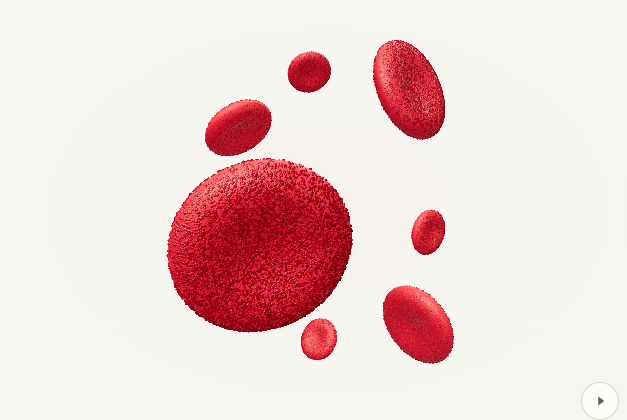
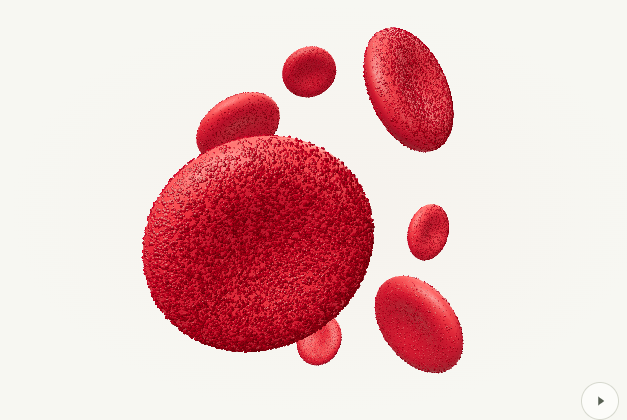
Polish catalogue accordions, scene loading and page entrance motion

Changed region(s): [[0.2121, 0.0929, 0.7576, 0.8976], [0.5758, 0.0619, 0.7273, 0.3714], [0.6364, 0.4643, 0.7273, 0.619]]

diff --git a/src/main.js b/src/main.js
@@ -4,6 +4,7 @@ import '@fontsource/figtree/latin-600.css';
 import '@fontsource/figtree/latin-700.css';
 import '@fontsource/dm-mono/latin-400.css';
 import './style.css';
+import {initPageMotion} from './page-motion.js';
 import {renderGuidance, initGuidance} from './test-guidance.js';
 import {renderProcess, initProcess} from './process.js';
 import {renderServiceCards, renderServiceDrawer, initServiceDrawer} from './service-drawer.js';
@@ -16,12 +17,12 @@ const waLink = (label, message, classes='text-link') => `<a class="${classes} wh
 const isServices = location.pathname.replace(/\/$/, '') === '/services';
 const isPrivacy = location.pathname.replace(/\/$/, '') === '/privacy';
 const homeAnchor = id => isServices || isPrivacy ? `/#${id}` : `#${id}`;
-const departmentRows = (full=false) => departments.map((d,i)=> `<details class="department" id="${d.id}"><summary><span class="index">0${i+1}</span><span class="department-title">${d.name}<small>${d.summary}</small></span><span class="test-count">${d.tests.length} TESTS</span><span class="plus" aria-hidden="true">+</span></summary><div class="department-content">${d.tests.map(t=>testRow(t)).join('')}</div></details>`).join('');
+const departmentRows = (full=false) => departments.map((d,i)=> `<details class="department" name="catalogue-departments" id="${d.id}"><summary><span class="index">0${i+1}</span><span class="department-title">${d.name}<small>${d.summary}</small></span><span class="test-count">${d.tests.length} TESTS</span><span class="plus" aria-hidden="true">+</span></summary><div class="department-content">${d.tests.map(t=>testRow(t)).join('')}</div></details>`).join('');
 function testRow(t) { return `<div class="test-row" data-test-name="${t.name}"><div><h3>${t.name}</h3>${t.alias?`<span class="alias">${t.alias}</span>`:''}<p>${t.description}</p>${renderGuidance(t)}</div><div class="test-action"><span class="sample">${t.sample}</span><a href="${whatsapp(`Hello Javim Medical, I would like to enquire about ${t.name}. Please share pricing, turnaround time and preparation requirements.`)}" target="_blank" rel="noopener noreferrer" aria-label="Enquire about ${t.name}">Enquire ${arrow}</a></div></div>`; }
 const header = `<a class="skip-link" href="#main">Skip to content</a><header class="header wrap">${brand}<button class="menu-toggle" aria-label="Open navigation" aria-expanded="false" aria-controls="navigation">Menu <span aria-hidden="true">＋</span></button><nav id="navigation" aria-label="Main navigation"><a href="/services" ${isServices?'aria-current="page"':''}>Services</a><a href="${homeAnchor('about')}">The lab</a><a href="${homeAnchor('corporate')}">For business</a><a href="${homeAnchor('contact')}">Contact</a><button class="button button-small" data-book>Book a visit ${arrow}</button></nav></header>`;
 const footer = `<footer class="footer wrap"><div class="footer-top">${brand}<p>Thoughtful care.<br>Clearer answers.</p>${waLink('Let’s talk')}</div><div class="footer-bottom"><span>© ${new Date().getFullYear()} Javim Medical Consultants Limited</span><a href="/privacy">Privacy</a><span>Nairobi, Kenya <span class="red-dot"></span></span></div></footer>`;
 const booking = `<dialog id="booking-dialog" aria-labelledby="booking-title" class="booking-dialog"><div class="dialog-head"><span class="eyebrow">YOUR NEXT STEP</span><button class="close-dialog" aria-label="Close booking">×</button></div><h2 id="booking-title">Make time<br>for your health.</h2><p class="muted">Choose what you need. We’ll take it from here.</p><div class="booking-options">${bookingTypes.map((b,i)=>{const url=safeCalUrl(b.calUrl);return `<a href="${url || whatsapp(b.message)}" target="_blank" rel="noopener noreferrer"><span class="index">0${i+1}</span><div><h3>${b.name}</h3><p>${b.description}</p><span class="alias">${url?'CHOOSE A TIME ON CAL.COM':'<span class="whatsapp-text">ARRANGE VIA WHATSAPP</span>'}</span></div>${arrow}</a>`}).join('')}</div><p class="booking-note">Pricing, preparation and collection arrangements are confirmed by our team. Please avoid sending sensitive medical information in your initial enquiry.</p></dialog>`;
-const hero = `<section class="hero wrap" aria-labelledby="hero-title"><div class="hero-copy"><div class="eyebrow"><span class="red-dot"></span> PRECISION. CARE. CLARITY.</div><h1 id="hero-title">A clearer<br>picture of<br>your <em>health.</em></h1><p>Laboratory testing with a human touch.<br>For you, your family and your team.</p><div class="hero-actions"><button class="button" data-book>Make an appointment ${arrow}</button><a class="text-link" href="/services">Explore our tests <span aria-hidden="true">→</span></a></div></div><div class="hero-visual"><div id="medical-scene" role="group" aria-label="DNA helix transforming into interactive flowing particles"><div class="scene-fallback"><svg xmlns="http://www.w3.org/2000/svg" viewBox="0 0 320 500" fill="none" aria-hidden="true"><g stroke="#df222b" stroke-width="10" stroke-linecap="round"><path d="M110 30c160 70-60 120 100 190s-60 120 0 250M210 30C50 100 270 150 110 220s60 120 0 250"/></g><g stroke="#d78689" stroke-width="3"><path d="m110 30 100 0M150 60h20M135 95h50M100 130h120M130 165h60M150 195h20M110 225h100M140 260h40M150 295h20M100 330h120M130 365h60M150 400h20M110 435h100M110 470h100"/></g></svg></div></div><div class="scene-bottom"><button id="motion-toggle" class="motion-toggle" aria-label="Pause animation" aria-pressed="false"><span aria-hidden="true">Ⅱ</span></button></div></div><div class="hero-foot"><span>PERSONAL CARE. A BROADER PERSPECTIVE.</span><a href="#services">Discover Javim <span aria-hidden="true">↓</span></a></div></section>`;
+const hero = `<section class="hero wrap" aria-labelledby="hero-title"><div class="hero-copy"><div class="eyebrow"><span class="red-dot"></span> PRECISION. CARE. CLARITY.</div><h1 id="hero-title">A clearer<br>picture of<br>your <em>health.</em></h1><p>Laboratory testing with a human touch.<br>For you, your family and your team.</p><div class="hero-actions"><button class="button" data-book>Make an appointment ${arrow}</button><a class="text-link" href="/services">Explore our tests <span aria-hidden="true">→</span></a></div></div><div class="hero-visual"><div id="medical-scene" aria-busy="true" role="group" aria-label="DNA helix transforming into interactive flowing particles"><div class="scene-fallback" hidden><img src="/assets/dna-poster.webp" alt="" width="640" height="720"></div></div><div class="scene-bottom"><button id="motion-toggle" class="motion-toggle" aria-label="Pause animation" aria-pressed="false"><span aria-hidden="true">Ⅱ</span></button></div></div><div class="hero-foot"><span>PERSONAL CARE. A BROADER PERSPECTIVE.</span><a href="#services">Discover Javim <span aria-hidden="true">↓</span></a></div></section>`;
 const about = `<section id="about" class="about-section wrap section"><div class="eyebrow">01 / THE JAVIM APPROACH</div><div class="about-grid"><h2>Small details.<br>Meaningful answers.</h2><div><p class="large-copy">Behind every sample is a person.<br>That’s where our work begins.</p><p class="muted">Javim Medical Consultants Limited brings together diagnostic testing and personal service in Nairobi. From a routine check to a more specific investigation, our team helps you understand the next step.</p><details class="quiet-details"><summary>Get to know the lab <span aria-hidden="true">+</span></summary><div><p>Our services span haematology, clinical chemistry, immunoassays and hormones, serology, microbiology, parasitology, and histology and cytology.</p><p>Whether you live locally or are visiting Kenya, speak directly with our team about test availability, sample requirements, pricing and turnaround times.</p></div></details></div></div>${renderProcess()}</section>`;
 const serviceSection = `<section id="services" class="services-section section wrap"><div class="section-heading"><div><span class="eyebrow">02 / OUR SERVICES</span><h2>A world of insight.<br>A simple place to start.</h2></div><p class="muted">Seven areas of diagnostic testing.<br>Open a category to find what you need.</p></div><div class="service-card-grid">${renderServiceCards()}</div><div class="section-tail"><span class="muted">Already know the test you need?</span><a class="text-link" href="/services">Search the full catalogue <span aria-hidden="true">→</span></a></div></section>`;
 const anatomySVG = `<svg viewBox="0 0 320 580" role="group" aria-label="Illustrated human body with highlighted organs"><defs><linearGradient id="body-fill" x1="0" y1="0" x2="1" y2="1"><stop stop-color="#f4f4ef"/><stop offset=".5" stop-color="#d7d8d2"/><stop offset="1" stop-color="#f6f6f0"/></linearGradient><radialGradient id="organ"><stop stop-color="#f36860"/><stop offset="1" stop-color="#c42028"/></radialGradient></defs><g fill="url(#body-fill)" stroke="#babdb5" stroke-width="1"><path d="M142 79c-8-8-15-18-14-37 1-20 12-30 32-30s31 10 32 30c1 19-6 29-14 37l-1 18 30 10c15 5 22 18 26 39l16 95 12 60-9 11-12-5-14-64-17-59-5 105 4 56-16 105-8 64-10 45 4 22h-30l-2-20 8-41 4-65 5-94-8-41h-18l-8 41 5 94 4 65 8 41-2 20h-30l4-22-10-45-8-64-16-105 4-56-5-105-17 59-14 64-12 5-9-11 12-60 16-95c4-21 11-34 26-39l30-10Z"/></g><g fill="none" stroke="#adb1a8" stroke-width="1.2" opacity=".45"><path d="M160 101v198M132 121c-20 21-27 56-16 78M188 121c20 21 27 56 16 78M124 153q36 18 72 0M120 165q40 20 80 0M119 179q41 19 82 0M122 193q38 17 76 0M125 208q35 14 70 0M135 298l-14 51M185 298l14 51M119 358l11 102M201 358l-11 102"/></g><g class="anatomy-organ" data-organ="blood" fill="url(#organ)"><path d="M160 145c-8-10-15-7-19 0-9 13-4 33 12 41 13 11 23-1 23-17 1-13-3-22-16-24Z"/><g fill="none" stroke="#d32b31" stroke-width="2.5"><path d="M161 184v104m0-79-29 17-9 77m38-87 29 13 9 74M158 149v-30m0 24-38-16-14 61m56-45 38-16 14 61M161 283l-28 59-1 84m29-143 28 59 1 84"/></g></g><g class="anatomy-organ" data-organ="thyroid" fill="url(#organ)"><path d="M156 111c-17-14-16 14-2 10h12c14 4 15-24-2-10Z"/></g><g class="anatomy-organ" data-organ="liver" fill="url(#organ)"><path d="M126 207c8-14 39-12 59-1-9 6-16 12-23 14-17 5-30 4-36-13Z"/></g><g class="anatomy-organ" data-organ="kidneys" fill="url(#organ)"><path d="M136 231c-15-7-21 21-11 29 7 6 16-3 12-9-9-2 1-14-1-20ZM184 231c15-7 21 21 11 29-7 6-16-3-12-9 9-2-1-14 1-20Z"/></g><g class="anatomy-organ" data-organ="metabolic" fill="none" stroke="#d52a32" stroke-width="4"><path d="M141 273q-15-9-13 5t27 6q24-17 29-3t-22 10q-34-1-20 15t38-3"/></g></svg>`;
@@ -32,6 +33,7 @@ const contact = `<section id="contact" class="contact-section"><div class="wrap 
 const servicesPage = `<section class="catalogue-page wrap"><div class="catalogue-hero"><div class="catalogue-intro"><div class="eyebrow"><span class="red-dot"></span> OUR SERVICES</div><h1>Find your<br><em>next answer.</em></h1><p class="large-copy">Explore our laboratory tests.<br>Ask our team about preparation, pricing and timing.</p></div><div class="blood-visual"><div id="blood-scene" role="group" aria-label="Illustrative red blood cells floating in three dimensions"><img class="blood-fallback" src="/assets/services/haematology.webp" alt="" width="840" height="560"></div><button id="blood-motion-toggle" class="motion-toggle" aria-label="Pause blood cell animation" aria-pressed="false"></button></div></div><div class="search-bar"><label for="test-search">Search tests</label><div><span aria-hidden="true">⌕</span><input id="test-search" type="search" placeholder="Try HbA1c, thyroid or kidney…" autocomplete="off"><button id="clear-search" aria-label="Clear search" hidden>×</button></div></div><div class="filter-list" role="group" aria-label="Filter by department"><button data-filter="all" class="active" aria-pressed="true">All tests</button>${departments.map(d=>`<button data-filter="${d.id}" aria-pressed="false">${d.name}</button>`).join('')}</div><p id="results-count" class="eyebrow" role="status" aria-live="polite">${allTests.length} TESTS / 7 SERVICE GROUPS</p><div id="catalogue-results">${departmentRows(true)}</div><div class="catalogue-help"><h2>Not sure where to start?</h2><p class="muted">Share the test name or your clinician’s request. Our team can confirm availability, pricing and preparation.</p>${waLink('Ask the team')}</div></section>`;
 const privacy = `<article class="privacy-page wrap"><span class="eyebrow">YOUR PRIVACY</span><h1>Care includes<br><em>your privacy.</em></h1><p>This website provides information about Javim Medical Consultants Limited and links to our team and appointment services.</p><h2>Website use</h2><p>We do not provide a medical-record upload form or use analytics or advertising trackers on this website. Our hosting provider may process technical request information such as IP addresses for delivery and security.</p><h2>Contact and booking</h2><p><span class="whatsapp-text">WhatsApp</span>, Cal.com (when enabled) and Google Maps are external services with their own privacy policies. They receive information when you follow a link to use them. Please avoid sharing sensitive health details in an initial booking enquiry.</p><h2>Medical information</h2><p>Ask our team how patient information, specimens and laboratory results are handled before submitting medical information. This website notice does not replace the laboratory’s patient-data policy.</p><h2>Questions</h2><p>Contact <a href="mailto:javimops@outlook.com">javimops@outlook.com</a> for privacy enquiries.</p></article>`;
 document.querySelector('#app').innerHTML = (header + `<main id="main">${isServices?servicesPage:isPrivacy?privacy:hero+about+serviceSection+explorer+corporate+contact}</main>` + footer + booking + (!isServices&&!isPrivacy?renderServiceDrawer():'')).replaceAll('↗', arrowIcon);
+initPageMotion();
 initProcess();
 initServiceDrawer();
 const dialog = document.querySelector('#booking-dialog');
@@ -44,6 +46,8 @@ document.querySelectorAll('#navigation a, #navigation [data-book]').forEach(a=>a
 if (!isServices && !isPrivacy) {
   import('./scene.js').then(({mountScene}) => mountScene(document.querySelector('#medical-scene'))).catch(() => {
     document.querySelector('.scene-fallback').hidden = false;
+    document.querySelector('#medical-scene').setAttribute('aria-busy','false');
+    document.querySelector('#medical-scene').dataset.phase='fallback';
     document.querySelector('#medical-scene canvas')?.setAttribute('hidden', '');
     document.querySelector('#motion-toggle').hidden = true;
   });
@@ -75,10 +79,11 @@ if (isServices) {
   import('./blood-cells.js').then(({mountBloodCells})=>mountBloodCells(document.querySelector('#blood-scene'))).catch(()=>{document.querySelector('#blood-motion-toggle').hidden=true;});
   let filter='all';const search=document.querySelector('#test-search');
   const render=()=>{
-    const q=search.value.trim();let count=0;
+    const q=search.value.trim();let count=0,opened=false;
     const html=departments.filter(d=>filter==='all'||d.id===filter).map(d=>{
       const tests=d.tests.filter(t=>matchesTest(t,q));count+=tests.length;if(!tests.length)return '';
-      return `<details class="department" ${q||filter!=='all'?'open':''}><summary><span class="index">0${departments.indexOf(d)+1}</span><span class="department-title">${d.name}<small>${d.summary}</small></span><span class="test-count">${tests.length} TESTS</span><span class="plus" aria-hidden="true">+</span></summary><div class="department-content">${tests.map(testRow).join('')}</div></details>`;
+      const expand=!!(q||filter!=='all')&&!opened;if(expand)opened=true;
+      return `<details class="department" name="catalogue-departments" ${expand?'open':''}><summary><span class="index">0${departments.indexOf(d)+1}</span><span class="department-title">${d.name}<small>${d.summary}</small></span><span class="test-count">${tests.length} TESTS</span><span class="plus" aria-hidden="true">+</span></summary><div class="department-content">${tests.map(testRow).join('')}</div></details>`;
     }).join('');
     document.querySelector('#catalogue-results').innerHTML=html||`<div class="empty-results"><h2>No matching tests.</h2><p>Try a shorter name, or ask our team about availability.</p>${waLink('Ask the team')}</div>`;
     document.querySelector('#results-count').textContent=`${count} ${count===1?'TEST':'TESTS'}${q?' MATCHING YOUR SEARCH':''}`;

diff --git a/tests/browser/page-polish.spec.js b/tests/browser/page-polish.spec.js
@@ -1,0 +1,17 @@
+import {test,expect} from '@playwright/test';
+test('catalogue departments remain exclusive before and after a search',async({page})=>{
+ await page.emulateMedia({reducedMotion:'reduce'});await page.goto('/services');const rows=page.locator('.department');
+ await rows.nth(0).locator(':scope>summary').click();await rows.nth(1).locator(':scope>summary').click();await expect(page.locator('.department[open]')).toHaveCount(1);await expect(rows.nth(0)).not.toHaveAttribute('open','');
+ await page.locator('#test-search').fill('blood');expect(await rows.count()).toBeGreaterThan(1);await expect(page.locator('.department[open]')).toHaveCount(1);
+ await rows.last().locator(':scope>summary').click();await expect(page.locator('.department[open]')).toHaveCount(1);
+});
+test('delayed DNA module shows no substitute drawing before the first real frame',async({page})=>{
+ await page.emulateMedia({reducedMotion:'reduce'});let release;const gate=new Promise(resolve=>release=resolve);
+ await page.route(/\/assets\/scene-[^/]+\.js/,async route=>{await gate;await route.continue();});
+ await page.goto('/',{waitUntil:'domcontentloaded'});const scene=page.locator('#medical-scene');await expect(scene).toHaveAttribute('aria-busy','true');await expect(scene.locator('.scene-fallback')).toBeHidden();await expect(scene.locator('.scene-fallback svg')).toHaveCount(0);
+ release();await expect(scene).toHaveAttribute('data-rendered','true',{timeout:30000});await expect(scene).toHaveAttribute('aria-busy','false');await expect(scene.locator('canvas')).toBeVisible();
+});
+test('scroll reveals enhance content and reduced motion avoids entrance animations',async({page})=>{
+ await page.emulateMedia({reducedMotion:'no-preference'});await page.goto('/');const card=page.locator('.service-card').first();await card.scrollIntoViewIfNeeded();await expect(card).toHaveAttribute('data-revealed','true');
+ await page.emulateMedia({reducedMotion:'reduce'});await page.reload();await expect(page.locator('#medical-scene')).toHaveAttribute('data-rendered','true',{timeout:30000});expect(await page.evaluate(()=>document.getAnimations().filter(a=>a.playState==='running').length)).toBe(0);await expect(page.getByRole('button',{name:'Make an appointment'})).toBeVisible();
+});

diff --git a/src/page-motion.js b/src/page-motion.js
@@ -1,0 +1,15 @@
+// Progressive enhancement: content stays visible if observers or animation fail.
+export function initPageMotion(){
+ const reduced=matchMedia('(prefers-reduced-motion:reduce)');
+ if(reduced.matches||!('IntersectionObserver' in window)||!Element.prototype.animate)return;
+ const active=new Set();
+ function reveal(element,delay=0){
+  if(reduced.matches)return;
+  const animation=element.animate([{opacity:0,transform:'translateY(18px)'},{opacity:1,transform:'translateY(0)'}],{duration:600,delay,easing:'cubic-bezier(.2,.7,.2,1)',fill:'backwards'});
+  active.add(animation);animation.finished.then(()=>active.delete(animation)).catch(()=>active.delete(animation));
+ }
+ if(!location.hash&&scrollY<100){document.querySelectorAll('.hero-copy,.hero-visual,.catalogue-intro,.blood-visual,.privacy-page').forEach((el,i)=>reveal(el,i*85));}
+ const observer=new IntersectionObserver(entries=>{for(const entry of entries){if(!entry.isIntersecting)continue;observer.unobserve(entry.target);entry.target.dataset.revealed='true';reveal(entry.target);}}, {threshold:.08,rootMargin:'0px 0px -24px 0px'});
+ document.querySelectorAll('.about-grid,.process-section,.section-heading,.service-card,.explorer-disclosure,.corporate-grid,.contact-grid,.footer-top').forEach(el=>observer.observe(el));
+ reduced.addEventListener('change',()=>{if(reduced.matches){observer.disconnect();active.forEach(animation=>animation.cancel());active.clear();}});
+}

diff --git a/src/style.css b/src/style.css
@@ -204,3 +204,9 @@ body.service-drawer-open{overflow:hidden}
 @media(max-width:900px){.test-guide-columns{grid-template-columns:1fr;gap:18px}.test-guide-card{padding:20px}.test-guide>summary{font-size:14px}}
 @media(max-width:600px){.test-row:has(.test-guide[open]){flex-wrap:wrap}.test-row:has(.test-guide[open])>div:first-child{flex-basis:100%}.test-row:has(.test-guide[open]) .test-action{flex-direction:row;align-items:center;justify-content:space-between;width:100%}.test-guide-columns p{font-size:15px}}
 @media(prefers-reduced-motion:reduce){.test-guide>summary span{transition:none}}
+
+/* Reveal the DNA only after its first real frame, not a placeholder drawing. */
+#medical-scene canvas{opacity:0;transition:opacity .35s ease}
+#medical-scene[data-rendered="true"] canvas{opacity:1}
+#medical-scene .scene-fallback img{width:100%;height:100%;object-fit:cover}
+@media(prefers-reduced-motion:reduce){#medical-scene canvas{transition:none}}

diff --git a/src/blood-cells.js b/src/blood-cells.js
@@ -72,7 +72,7 @@ export function mountBloodCells(container){
  let totalGrains=0;
  const cells=specifications.slice(0,compact?5:8).map(([x,y,z,scale,rx,ry],index)=>{
   const material=new THREE.MeshPhysicalMaterial({color:index%2?0xa90c20:0xb70d23,roughness:.85,metalness:0,bumpMap:texture,bumpScale:.04,roughnessMap:texture,clearcoat:0,clearcoatRoughness:.65,envMapIntensity:.2,transparent:true});
-  const mesh=new THREE.Mesh(geometry,material);mesh.scale.setScalar(scale);mesh.rotation.set(rx,ry,index*.7);group.add(mesh);
+  const mesh=new THREE.Mesh(geometry,material);mesh.scale.setScalar(scale*(compact?1.1:1.25));mesh.rotation.set(rx,ry,index*.7);group.add(mesh);
   const grainCount=compact?(index===0?12000:3500):(index===0?28000:index===1?14000:4500);
   const grains=surfaceGrains(grainCount,193+index*719,1);mesh.add(grains);totalGrains+=grainCount;
   return {mesh,grains,x,y,z,rx,ry,index};

diff --git a/src/scene.js b/src/scene.js
@@ -9,6 +9,7 @@ export function mountScene(container) {
     container.querySelector('canvas')?.setAttribute('hidden', '');
     button.hidden = true;
     container.dataset.phase = 'fallback';
+    container.setAttribute('aria-busy','false');
   };
   let renderer;
   try { renderer = new THREE.WebGLRenderer({antialias:true, alpha:true, powerPreference:'low-power'}); }
@@ -191,6 +192,7 @@ export function mountScene(container) {
     container.dataset.particleCount = String(count);
     container.dataset.interaction = uniforms.uInfluence.value > .1 && amount > .1 ? 'active' : 'idle';
     renderer.render(scene, camera); container.querySelector('.scene-fallback').hidden = true;
+    container.dataset.rendered='true';container.setAttribute('aria-busy','false');
   };
   document.addEventListener('visibilitychange', () => { last = performance.now(); });
   const animate = now => {

diff --git a/README.md b/README.md
@@ -4,6 +4,12 @@ A minimalist, responsive laboratory website built with Vite, vanilla JavaScript 
 
 ## Current design
 
+### Page loading and motion
+
+Homepage and services introductions have subtle entrance animations; selected homepage sections reveal once as they enter the viewport. Reduced-motion preferences disable these effects. Content is visible by default, including when animation APIs are unavailable. The DNA canvas fades in after its first rendered frame; no placeholder drawing is shown during loading. If WebGL fails, a static capture of the real 3D scene is displayed from `public/assets/dna-poster.webp`.
+
+Catalogue departments behave as an exclusive accordion, including after searches and filter changes. Searches retain all matching tests and initially open the first matching department.
+
 ### Individual test guidance
 
 All 42 tests include a “Before your test” card, with Before / During / After sections and a test-specific WhatsApp enquiry. Hover or keyboard focus previews the card; click pins it open. Escape dismisses it. Mobile uses a stacked expandable card, and only one guidance card stays open at a time. Event delegation keeps the behaviour working after catalogue search and filter updates.
